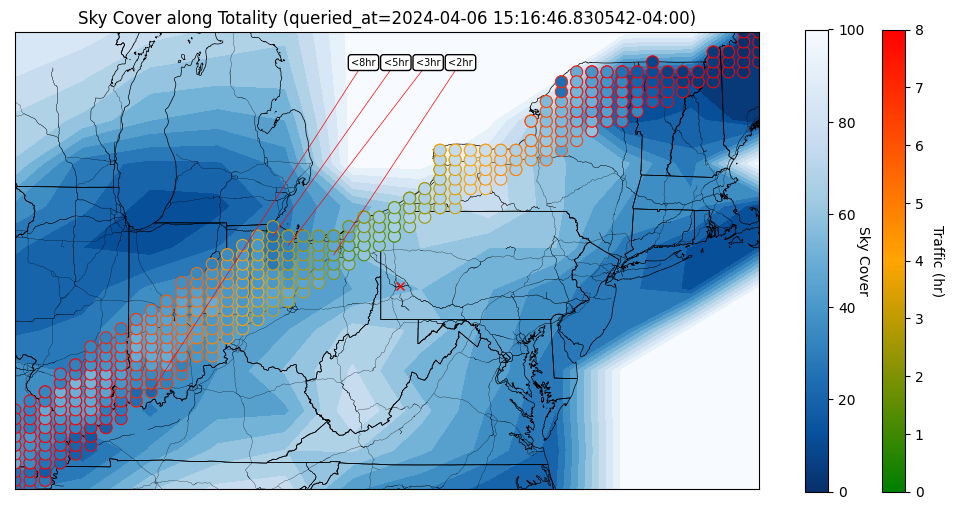
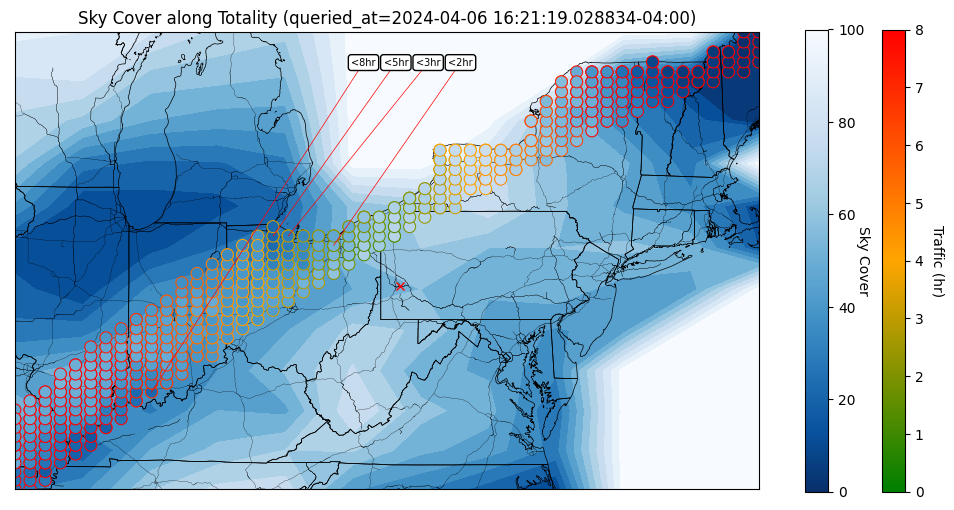
Automated map update

diff --git a/README.md b/README.md
@@ -3,6 +3,6 @@ The last sky cover plot generated:
 
 The best targets by hour:
  - Less than 8 hours: (38.15510, 38.15510) cover: 21
- - Less than 5 hours: (41.48571, 41.48571) cover: 24
- - Less than 3 hours: (41.28980, 41.28980) cover: 32
- - Less than 2 hours: (41.09388, 41.09388) cover: 47
+ - Less than 5 hours: (41.48571, 41.48571) cover: 21
+ - Less than 3 hours: (41.48571, 41.48571) cover: 29
+ - Less than 2 hours: (41.28980, 41.28980) cover: 52
